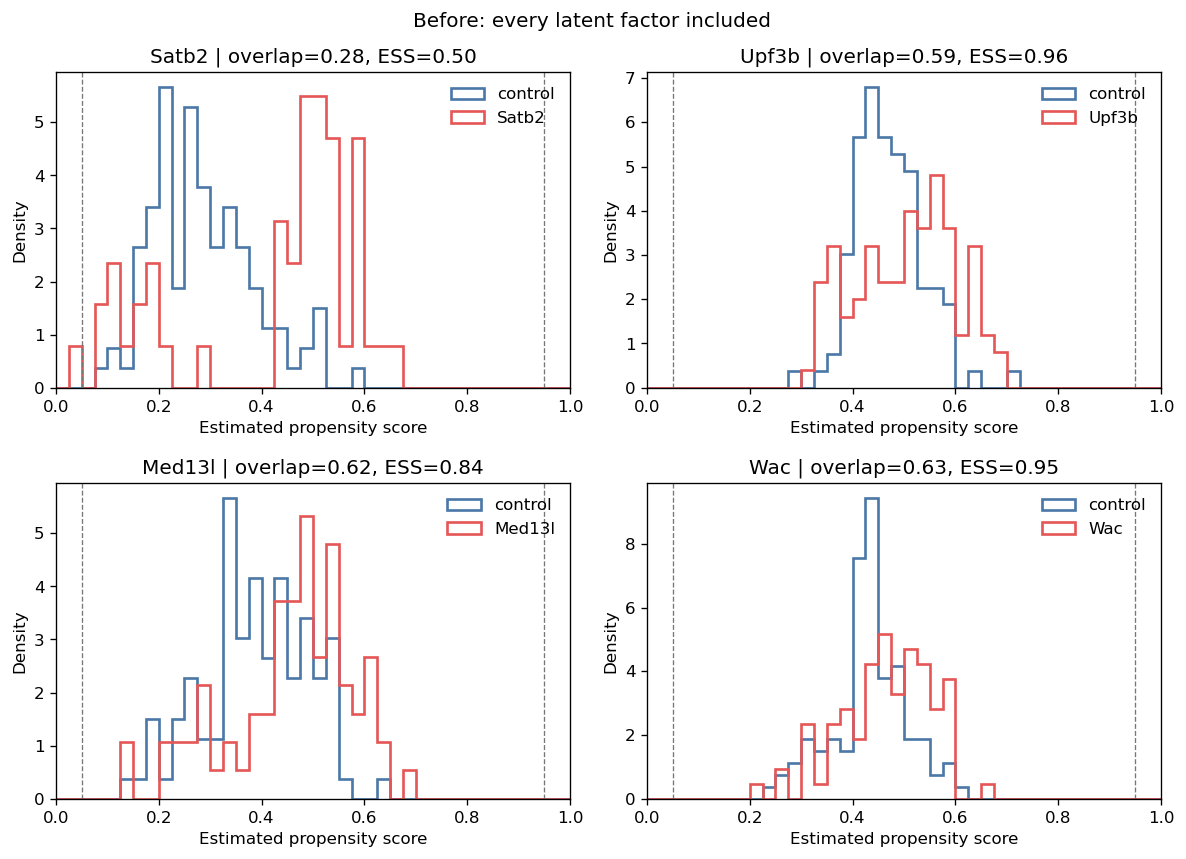
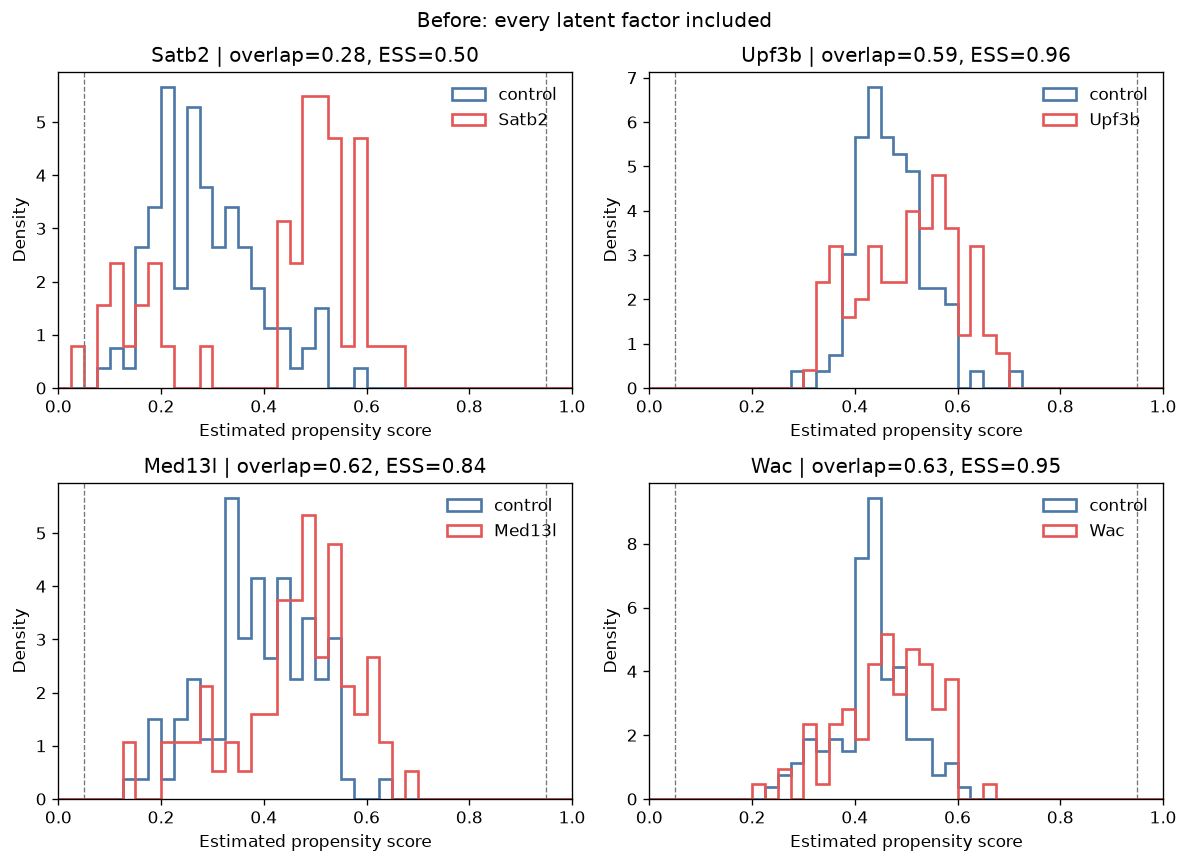
Rebuild the R environment natively; re-knit the Perturb-seq R tutorial
The causarray and causarray-r environments must share an architecture, since
reticulate cannot load an arm64 Python into an Intel R. The README now says
to create both natively on Apple Silicon. environment-r.yaml lists dplyr and
ggplot2, which the R tutorial loads directly.

The R tutorial is re-knit with native R 4.4 and Python. Results are
unchanged (8,161 hits; U9 and U7 dropped for Satb2). Seurat now loads
quietly, and the newer pandoc changes heading style only.

diff --git a/docs/source/tutorial/perturbseq/perturbseq-r.md b/docs/source/tutorial/perturbseq/perturbseq-r.md
@@ -1,7 +1,6 @@
-Perturb-seq Tutorial (R)
-========================
+# Perturb-seq Tutorial (R)
 
-This tutorial uses an excitatory-neuron subset from [Jin et al. (2020),
+This tutorial uses an excitatory-neuron subset from [Jin et al. (2020),
 *Science*](https://doi.org/10.1126/science.aaz6063), which studied gene
 perturbations in the developing mouse brain. Data are available from the
 [Broad Single Cell
@@ -16,21 +15,8 @@ biology. Saved outputs illustrate one run; counts and rankings may
 change after refitting.
 
 ``` r
-library(Seurat)
-```
+suppressPackageStartupMessages(library(Seurat))
 
-    ## Loading required package: SeuratObject
-
-    ## Loading required package: sp
-
-    ## 
-    ## Attaching package: 'SeuratObject'
-
-    ## The following objects are masked from 'package:base':
-    ## 
-    ##     intersect, t
-
-``` r
 sc.seurat <- readRDS("data/perturbseq-exneu.rds")
 
 # Access the counts through Seurat when its installed version recognizes the
@@ -57,8 +43,7 @@ A <- data.frame(
 colnames(A) <- sub("^trt_", "", colnames(A))
 ```
 
-Prepare inputs
---------------
+## Prepare inputs
 
 Use `Y` for cell-by-gene counts, `A` for perturbation indicators, and
 `X`/`X_A` for outcome/propensity covariates. GFP control cells have
@@ -95,8 +80,7 @@ list2env(dat, .GlobalEnv)
 
     ## <environment: R_GlobalEnv>
 
-Estimate latent factors
------------------------
+## Estimate latent factors
 
 This example uses a fixed illustrative rank, matching the Python fitting
 cell. Inspect the JIC curve and nearby ranks in the Python example
@@ -133,8 +117,7 @@ cat(sprintf("Step 2 -- epochs: %d, best NLL: %.6f\n",
 
     ## Step 2 -- epochs: 29, best NLL: 1.709480
 
-Propensity-score diagnostics and factor selection
--------------------------------------------------
+## Propensity-score diagnostics and factor selection
 
 Read this before the effects. An arm whose propensity model separates it
 from the controls has inverse-probability weights concentrated on a few
@@ -145,24 +128,24 @@ Guides are assigned at random, so the propensity model only has to
 absorb chance imbalance between an arm and the controls. Two
 consequences for its covariates:
 
--   **Library size is left out, as a judgement call.** It could be a
-    confounder, since capture depth and cell quality affect both guide
-    detection and measured expression, or a consequence of the knockout,
-    which can change a cell’s total RNA; these data cannot tell which.
-    Most arms here have smaller libraries than the controls (median 64%
-    of the control level). With library size in the model, several arms
-    separate from the controls (AUC above 0.9, last column of the table
-    below), so their weights would rest on a few cells. Leaving it out
-    keeps every arm supported, at the cost of not adjusting for
-    depth-related confounding; the outcome model still normalizes for
-    depth through the size factors. The `LFC` documentation discusses
-    this choice.
--   **Latent factors are included, then checked arm by arm.** A factor
-    can also track a perturbation’s own effect; when one does,
-    `select_propensity_factors` drops it for that arm only. It flags an
-    arm whose treated ESS falls below 0.5, overlap below 0.3 or AUC
-    above 0.9, and removes the factor most imbalanced between that arm
-    and the controls, one at a time, until ESS and overlap recover.
+- **Library size is left out, as a judgement call.** It could be a
+  confounder, since capture depth and cell quality affect both guide
+  detection and measured expression, or a consequence of the knockout,
+  which can change a cell’s total RNA; these data cannot tell which.
+  Most arms here have smaller libraries than the controls (median 64% of
+  the control level). With library size in the model, several arms
+  separate from the controls (AUC above 0.9, last column of the table
+  below), so their weights would rest on a few cells. Leaving it out
+  keeps every arm supported, at the cost of not adjusting for
+  depth-related confounding; the outcome model still normalizes for
+  depth through the size factors. The `LFC` documentation discusses this
+  choice.
+- **Latent factors are included, then checked arm by arm.** A factor can
+  also track a perturbation’s own effect; when one does,
+  `select_propensity_factors` drops it for that arm only. It flags an
+  arm whose treated ESS falls below 0.5, overlap below 0.3 or AUC above
+  0.9, and removes the factor most imbalanced between that arm and the
+  controls, one at a time, until ESS and overlap recover.
 
 ``` r
 factor_names <- paste0("U", seq_len(ncol(U)))
@@ -362,8 +345,7 @@ knitr::asis_output("![](perturbseq-r_files/figure-markdown_github/treatment-asso
 
 ![](perturbseq-r_files/figure-markdown_github/treatment-associations-1.png)
 
-Estimation and results
-----------------------
+## Estimation and results
 
 ### Estimate log-fold changes
 

diff --git a/README.md b/README.md
@@ -45,7 +45,10 @@ conda env create -f environment-r.yaml
 ```
 
 The R tutorial runs from `causarray-r` and connects to the Python package in
-the `causarray` environment.
+the `causarray` environment. The two must share an architecture: on an Apple
+Silicon Mac, create both natively (`CONDA_SUBDIR=osx-arm64 conda env create -f
+environment-r.yaml`), since reticulate cannot load an arm64 Python into an
+Intel R.
 The documentation and tutorials using both `Python` and `R` are available at [causarray.readthedocs.io](https://causarray.readthedocs.io/en/latest/).
 
 
